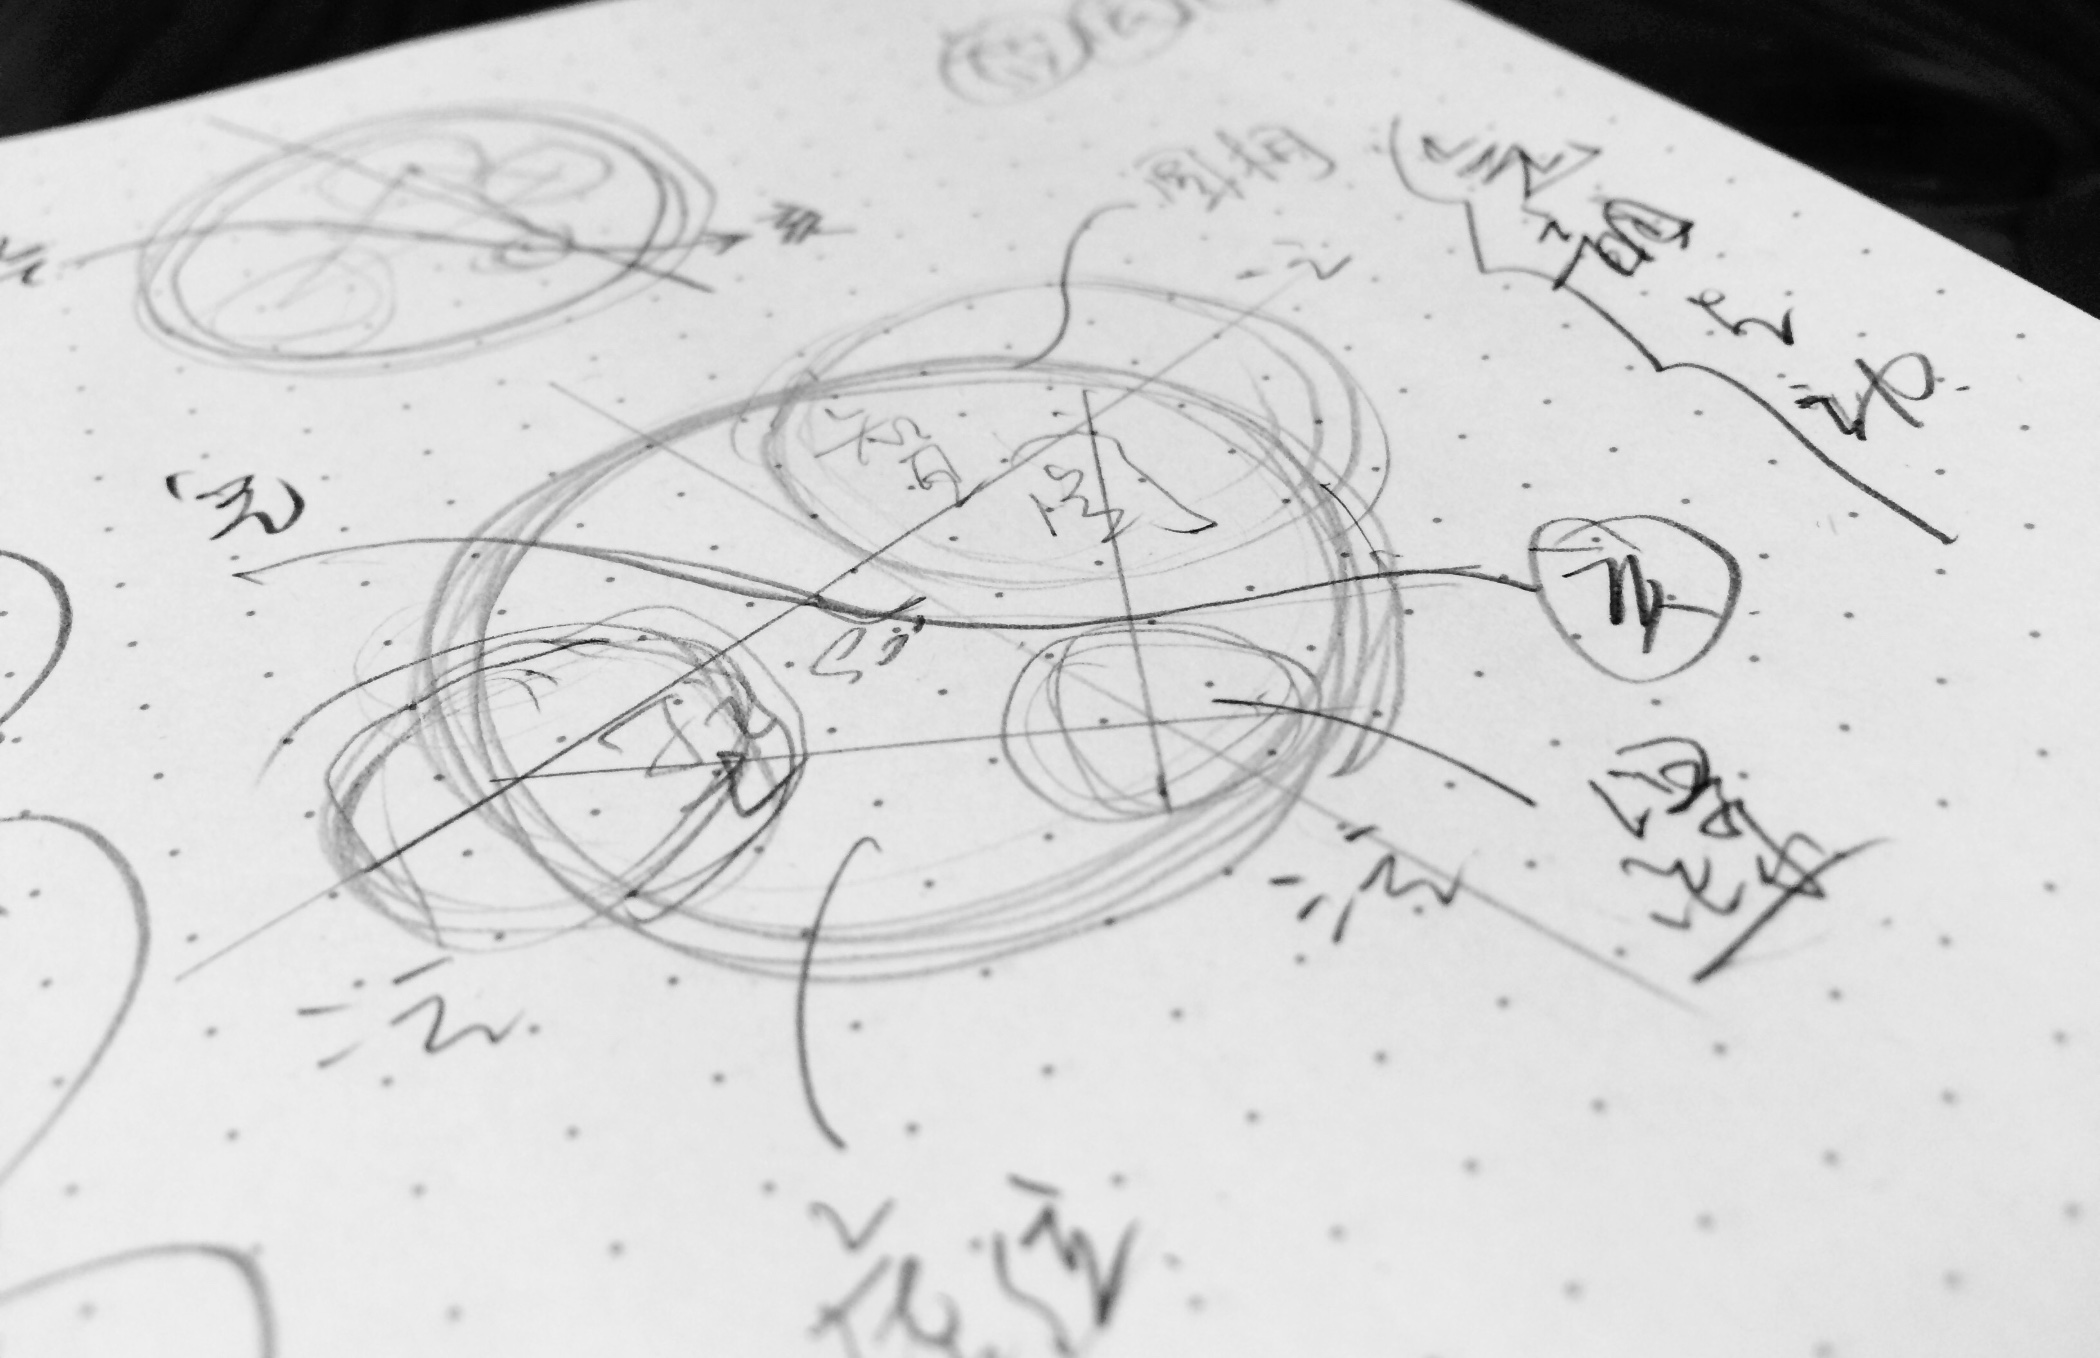
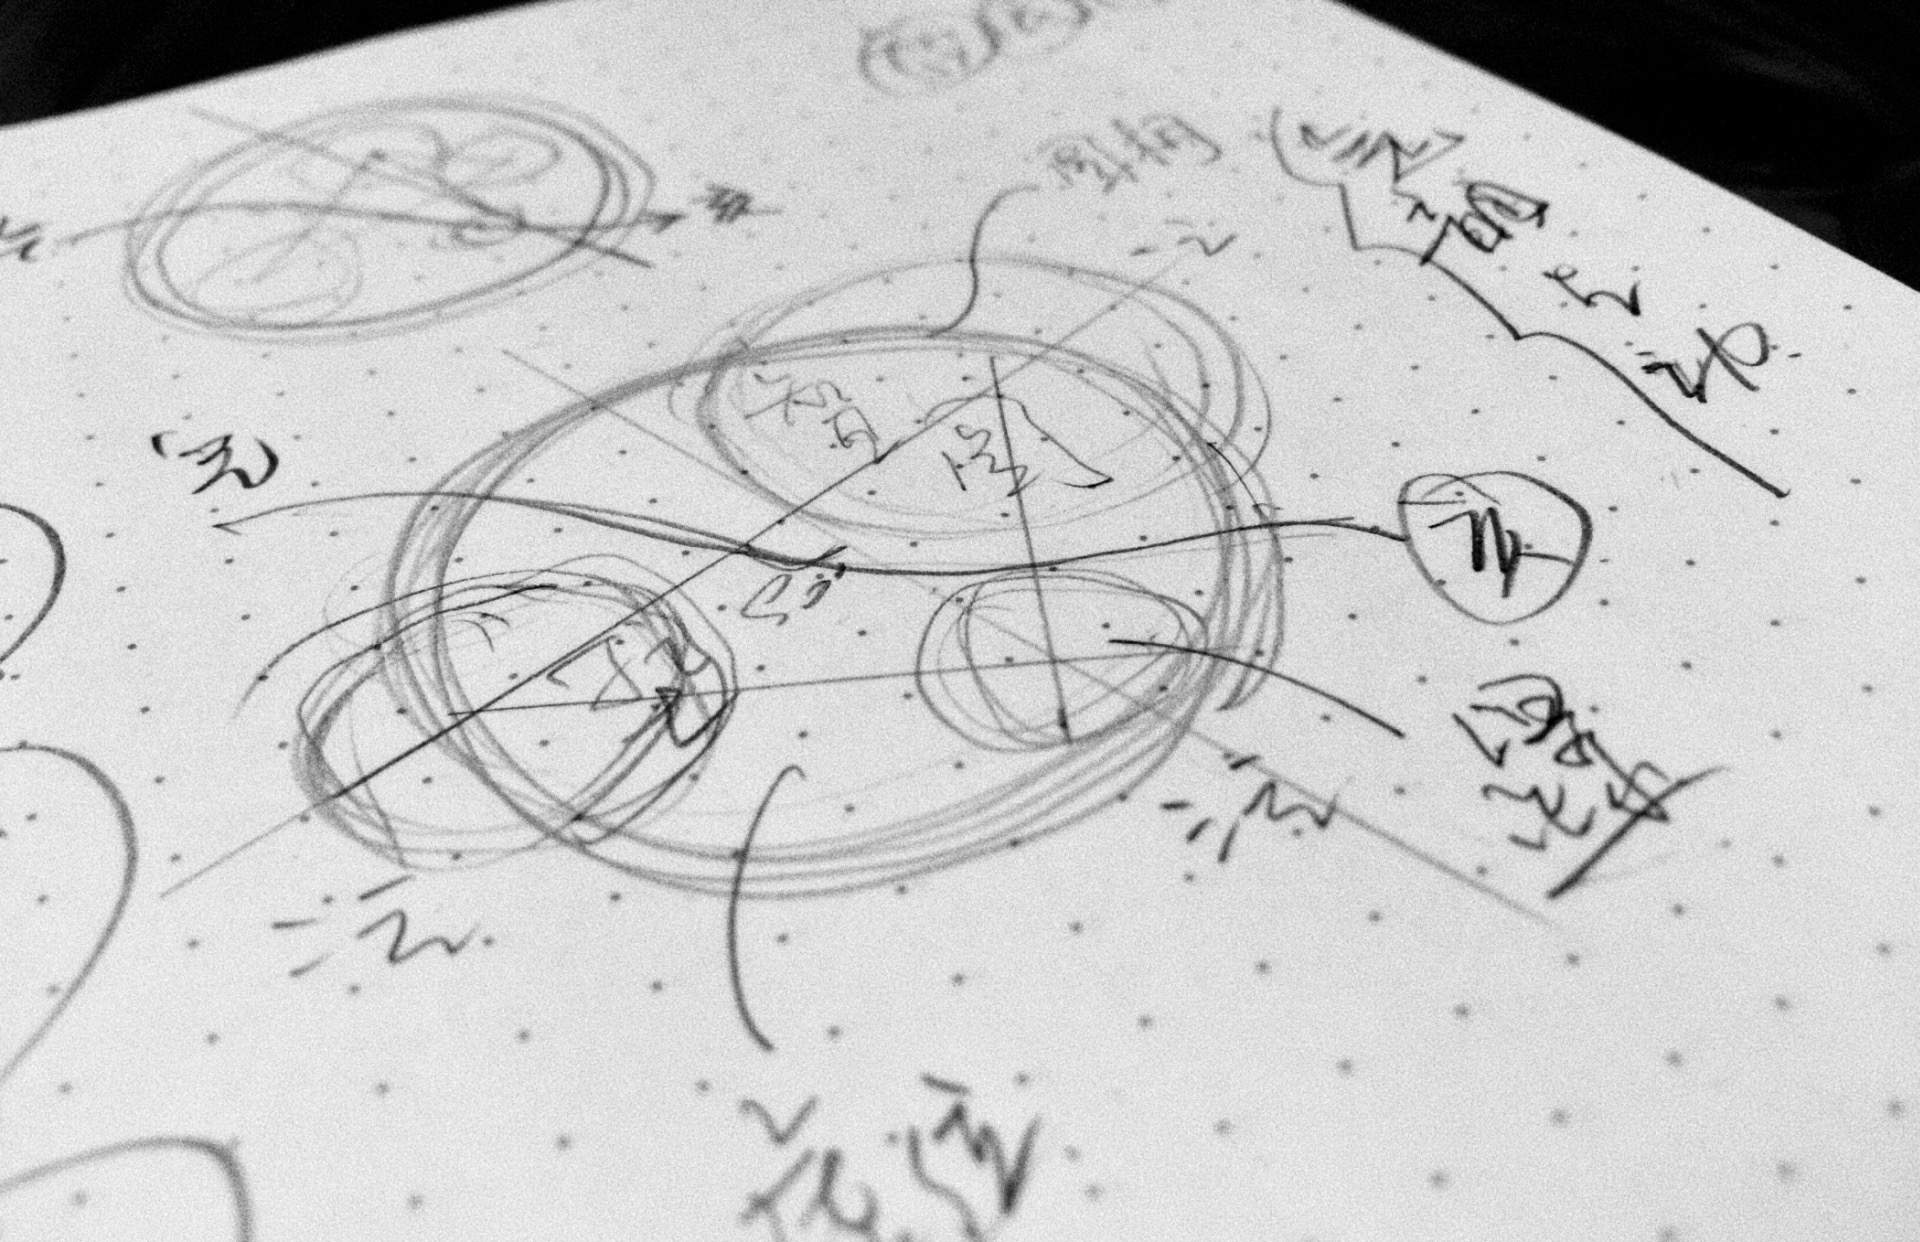
qysd

diff --git a/index.html b/index.html
@@ -619,8 +619,8 @@
 
      
       <div class="philosophy-quote fade-in" style="position:relative;overflow:hidden;padding:3rem 2rem;padding-left:4rem;min-height:200px;">
-        <div style="position:absolute;inset:0;background-image:url('qysd.jpg');background-size:cover;background-position:center;opacity:0.7;pointer-events:none;z-index:0;"></div>
-        <div style="position:absolute;top:0;left:0;bottom:0;width:216px;background:rgba(245,244,240,0.6);z-index:0;pointer-events:none;"></div>
+        <div style="position:absolute;inset:0;background-image:url('qysd.jpg');background-size:cover;background-position:center;opacity:0.8;min-height:320px;pointer-events:none;z-index:0;"></div>
+        <div style="position:absolute;top:0;left:0;bottom:0;width:216px;background:rgba(245,244,240,0.7);z-index:0;pointer-events:none;"></div>
         <span style="position:relative;z-index:1;">氣韻生動</span>
       </div>
 